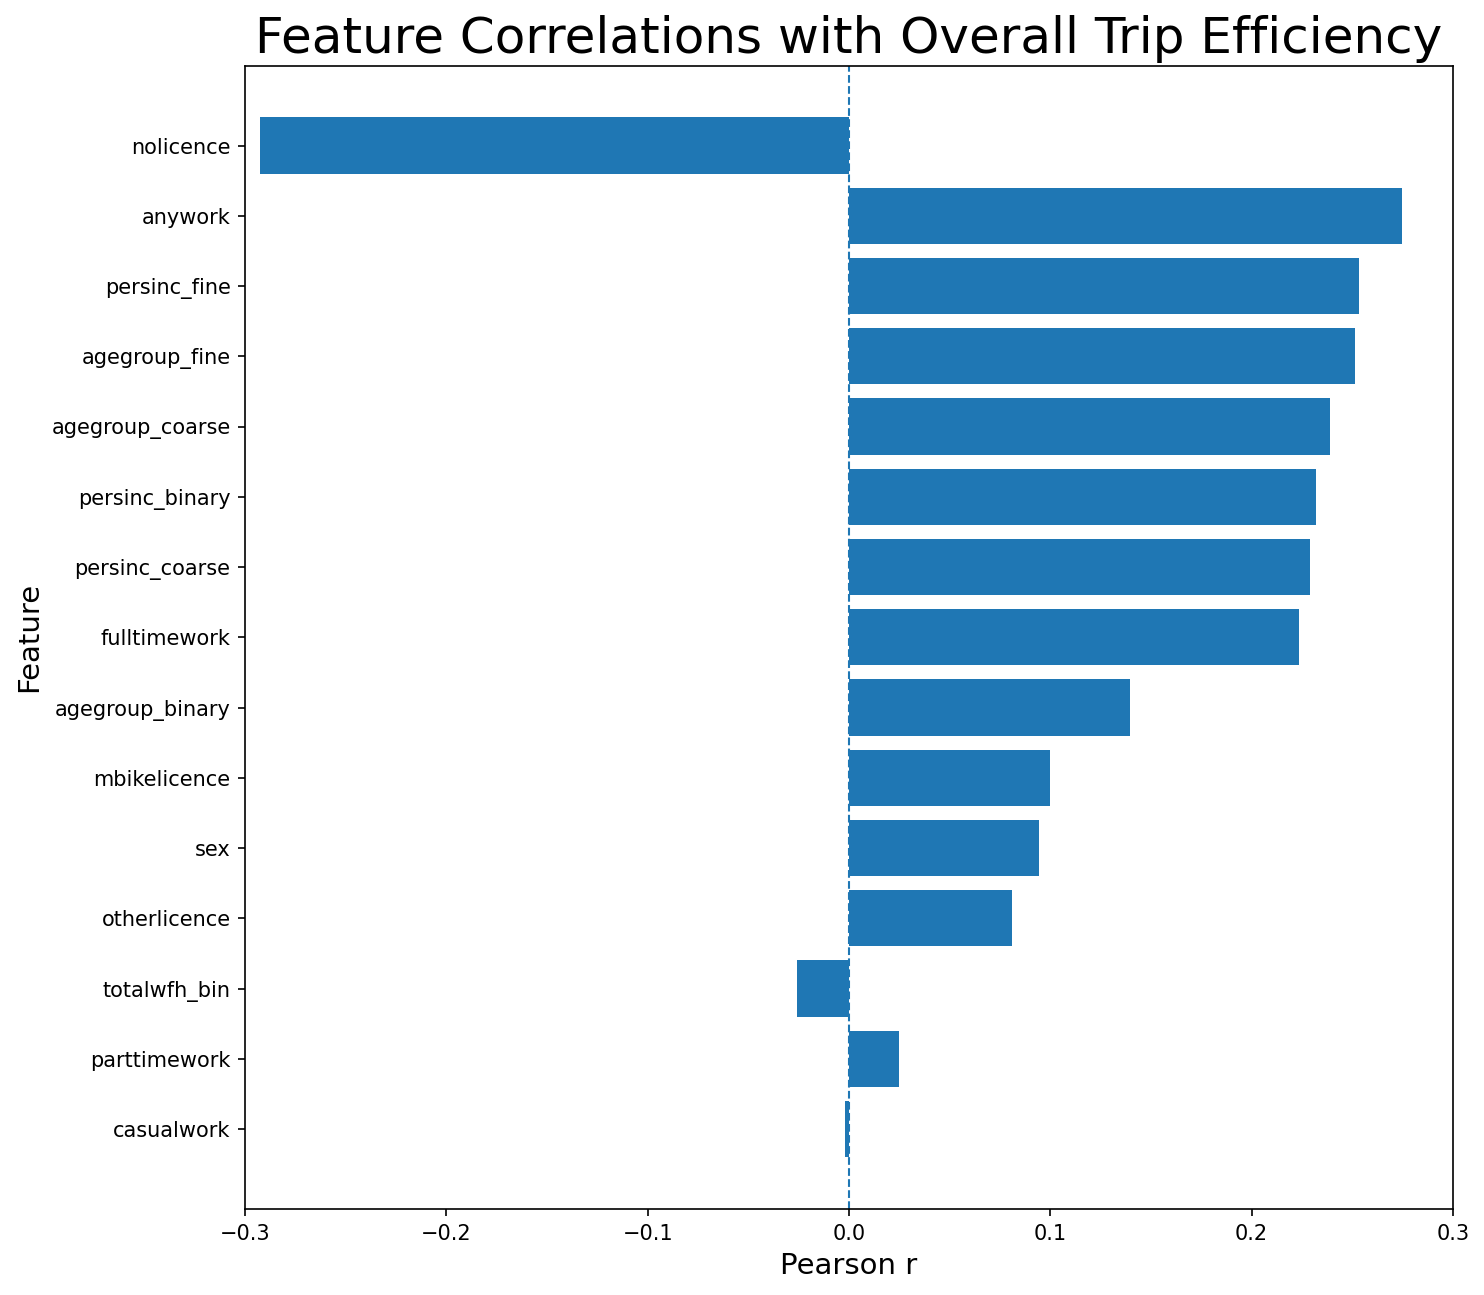
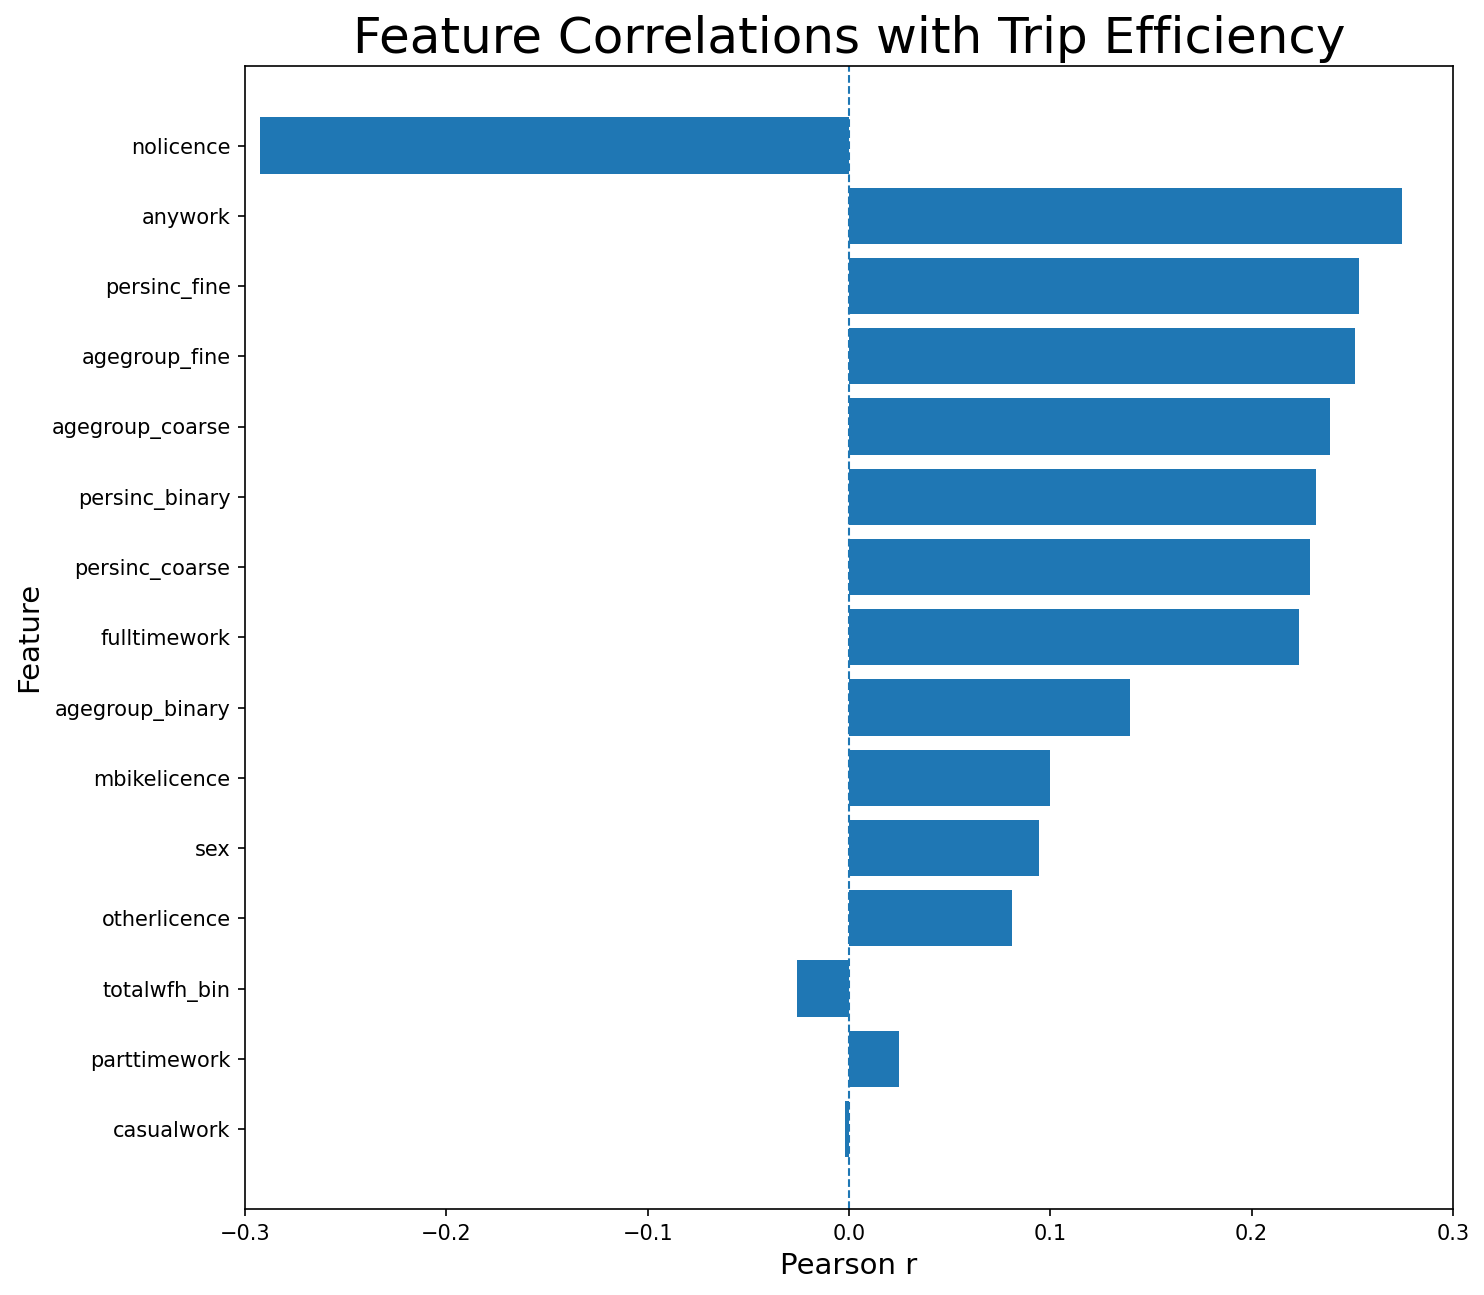
Added trip length correlation

Changed region(s): [[0.155, 0.0, 0.9609, 0.0618]]

diff --git a/correlation.py b/correlation.py
@@ -40,7 +40,8 @@ def wasted_time():
 
 # Filter feature matrix
 def get_X(df):
-    drop_cols = {"persid", "wasted_time", "most_used_mode", "perspoststratweight", "overall_trip_efficiency"}
+    drop_cols = {"persid", "wasted_time", "most_used_mode", "perspoststratweight",
+                 "overall_trip_efficiency", "overall_trip_length"}
     X = df.drop(columns=[c for c in drop_cols if c in df.columns], errors="ignore")
     return X.select_dtypes(include=[np.number]).fillna(0)
 
@@ -127,21 +128,35 @@ def corr_analysis():
     x = get_X(df)
     ranks = corr_values(x, y)
 
+    # Wasted time plot
     plot_bar(
         ranks,
         xlabel="Pearson r",
         title="Feature Correlations with Wasted Time",
         out_path=os.path.join(OUT_DIR, "wasted_time.png"),
     )
+
+    # Travel mode plots
     travel_mode_corr(df, x, out_dir=OUT_DIR)
 
+    # Trip efficiency plot
     y_eff = df["overall_trip_efficiency"].astype(float)
     ranks_eff = corr_values(x, y_eff)
     plot_bar(
         ranks_eff,
         xlabel="Pearson r",
-        title="Feature Correlations with Overall Trip Efficiency",
+        title="Feature Correlations with Trip Efficiency",
         out_path=os.path.join(OUT_DIR, "trip_efficiency.png"),
+    )
+
+    # Trip length plot
+    y_len = pd.to_numeric(df["overall_trip_length"], errors="coerce")
+    ranks_len = corr_values(x, y_len)
+    plot_bar(
+        ranks_len,
+        xlabel="Pearson r",
+        title="Feature Correlations with Trip Length",
+        out_path=os.path.join(OUT_DIR, "trip_length.png"),
     )
 
 # Run program

diff --git a/preprocessing.py b/preprocessing.py
@@ -43,6 +43,20 @@ def fetch_transport_mode():
     f.close()
     return result
 
+# Calculate total trip length from vistadist
+def compute_trip_length():
+    '''
+    Compute total trip length per person (sum of vistadist across all trips).
+    '''
+    df = pd.read_csv("datasets/stops.csv", usecols=["persid", "vistadist"])
+    df["vistadist"] = pd.to_numeric(df["vistadist"], errors="coerce")
+    trip_len = (
+        df.groupby("persid", as_index=False)["vistadist"]
+          .mean()   # or .sum() if you want total distance per person instead of mean
+          .rename(columns={"vistadist": "overall_trip_length"})
+    )
+    return trip_len
+
 # Uses stops and 
 def compute_travel_efficiency():
     '''
@@ -191,6 +205,7 @@ def quick_data():
     result = preprocess_persons(df)
     result = result.merge(compute_travel_efficiency(), on='persid', how='left')
     result = result.merge(fetch_transport_mode(), on='persid', how='left')
+    result = result.merge(compute_trip_length(), on='persid', how='left')
     result = result.dropna(subset=['most_used_mode', 'overall_trip_efficiency'])  # drop rows where target is NaN
     return result
 
